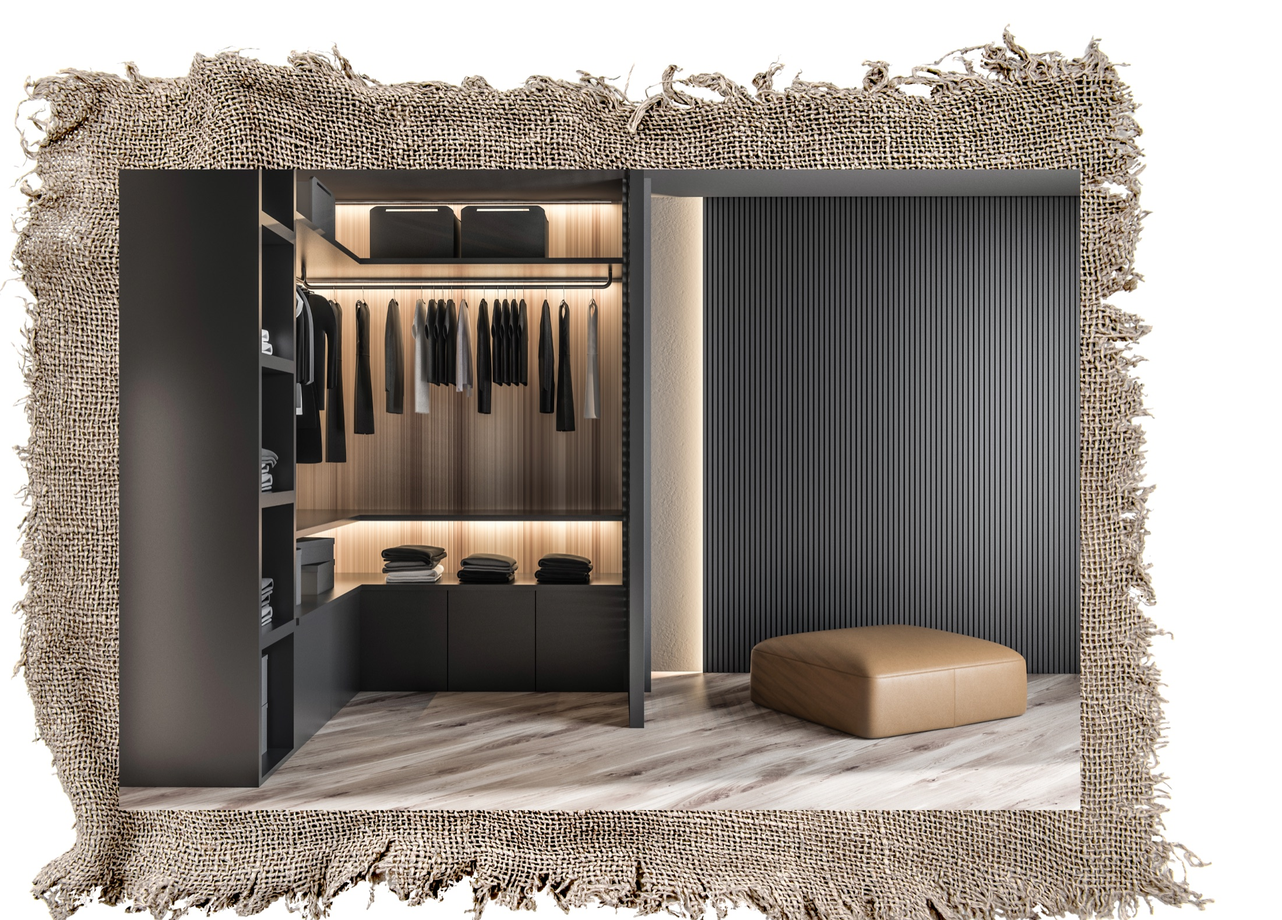
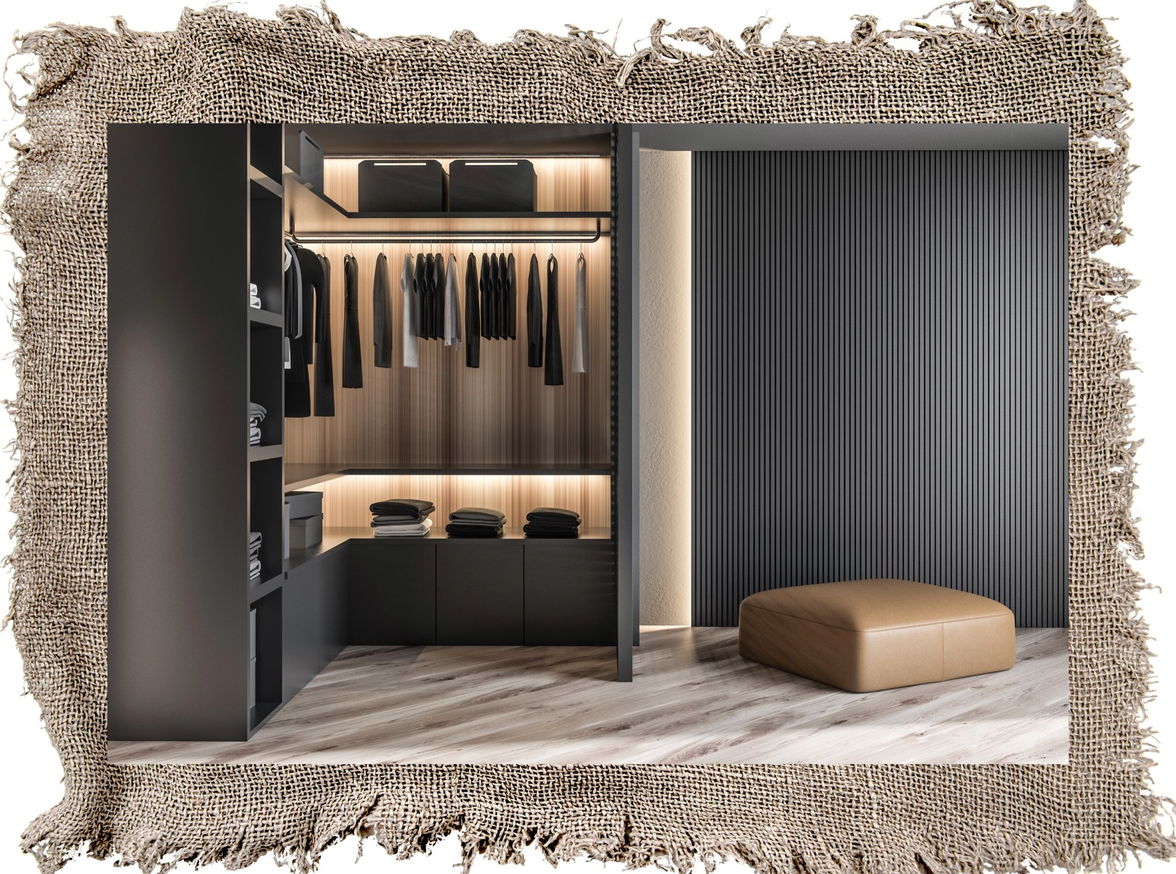
fix(image-story): retire silhouette gauche + nettoie marges blanches du dressing
- index.html: figure 'styleme-city-walk' (silhouette urbaine) supprimee
  (image deja presente en fond du bloc 'Ton conseiller, tes regles')
- style-v2.css: .story-grid passe de 3 a 2 colonnes (texte 1.1fr / photo 0.9fr)
- assets/dressing-frame-corrected.jpeg: recadree 2200x1579 -> 2018x1500
  pour supprimer les marges blanches pures en haut (40px) et a droite (115px)

Aucune autre modif.

diff --git a/index.html b/index.html
@@ -188,9 +188,6 @@
     <!-- STORY — titre : "Ton dressing connaît déjà la réponse." -->
     <section class="image-story">
       <div class="shell story-grid">
-        <figure class="story-photo story-photo--street tall">
-          <img src="assets/styleme-city-walk.jpeg" alt="Silhouette urbaine adaptée au quotidien">
-        </figure>
         <div class="story-copy">
           <p class="eyebrow" data-i18n="story_eyebrow">Dressing optimisé</p>
           <h2 data-i18n="story_title">Ton dressing connaît déjà la réponse.</h2>

diff --git a/style-v2.css b/style-v2.css
@@ -569,8 +569,8 @@ section {
 .image-story { padding: var(--space-section) 0; }
 .story-grid {
   display: grid;
-  grid-template-columns: 0.9fr 1.1fr 0.85fr;
-  gap: clamp(1.5rem, 3vw, 3rem);
+  grid-template-columns: 1.1fr 0.9fr;
+  gap: clamp(2rem, 4vw, 4rem);
   align-items: center;
 }
 .story-photo { margin: 0; overflow: hidden; border-radius: var(--radius-md); }
